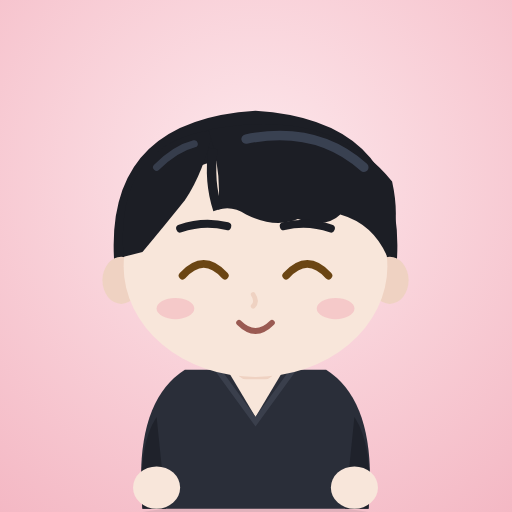
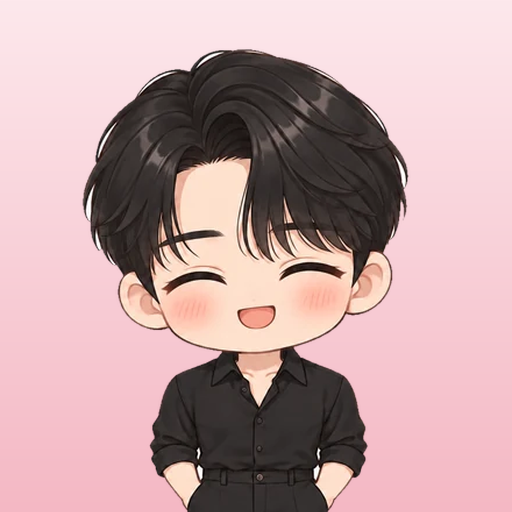
湛湛 App 0.5.0
Claude-Session: https://claude.ai/code/session_01Qnomjqv3r62AM3yc8JCqSm

diff --git a/app.js b/app.js
@@ -1,6 +1,16 @@
-import { petSVG } from './pet.js?v=0.4.0';
 
-const VERSION = '0.4.0';
+const VERSION = '0.5.0';
+// 小湛的圖（GPT 畫的，放在 pet/）
+const PET_IMG = {
+  shirt: ['normal', 'happy', 'hungry', 'sad'],
+  wolf: ['normal', 'happy', 'hungry', 'sad', 'sleep'],
+  home: ['normal'],
+  apron: ['normal'],
+  suit: ['normal'],
+};
+const petSrc = (outfit, face) => `pet/${outfit}-${PET_IMG[outfit]?.includes(face) ? face : 'normal'}.webp?v=0.5.0`;
+const headImg = (face = 'normal') => `<img class="head-img" src="pet/${face === 'happy' ? 'head-happy' : 'head'}.webp?v=0.5.0" alt="">`;
+const bodyImg = (face = 'normal', outfit = 'shirt') => `<img class="body-img" src="${petSrc(outfit, face)}" alt="小湛">`;
 
 // ================= 小工具 =================
 const $ = (s, r = document) => r.querySelector(s);
@@ -177,7 +187,7 @@ function renderTopbar() {
   const tb = $('#topbar');
   if (currentTab === 'chat') {
     const st = chatStatus();
-    tb.innerHTML = `<div class="avatar">${petSVG({ head: true, face: 'normal' })}</div>
+    tb.innerHTML = `<div class="avatar">${headImg()}</div>
       <div class="who"><h1>湛湛</h1><div class="sub">${esc(st)}</div></div>`;
   } else if (currentTab === 'photos') {
     tb.innerHTML = `<h1>相簿</h1><button class="icon-btn" id="photos-refresh" aria-label="重新整理">
@@ -407,10 +417,10 @@ function renderChat(forceBottom) {
   const sc = $('#chat-scroll');
   const nearBottom = sc.scrollHeight - sc.scrollTop - sc.clientHeight < 120;
   const list = $('#chat-list');
-  miniHead ||= petSVG({ head: true });
+  miniHead ||= headImg();
   const all = [...chat.log, ...chat.pending.map((p) => ({ ...p, role: 'user', pending: true }))];
   if (!all.length) {
-    list.innerHTML = `<div class="chat-empty"><div class="big">${petSVG({ face: 'happy' })}</div>
+    list.innerHTML = `<div class="chat-empty"><div class="big">${bodyImg('happy')}</div>
       ${settings.token ? '想說什麼就說，我在。' : '還沒連線。到「我們」分頁貼上 GitHub 金鑰，就能跟我說話了。'}</div>`;
     return;
   }
@@ -606,12 +616,27 @@ function petAct(kind, food) {
     setTimeout(() => { if (currentTab === 'pet') renderPet(); }, 2600);
   }
 }
+const OUTFITS = [
+  { k: 'auto', l: '自動', note: '白天襯衫、晚上睡衣', img: 'shirt' },
+  { k: 'shirt', l: '襯衫', img: 'shirt' },
+  { k: 'home', l: '居家服', img: 'home' },
+  { k: 'apron', l: '圍裙', img: 'apron' },
+  { k: 'suit', l: '西裝', img: 'suit' },
+  { k: 'wolf', l: '大灰狼睡衣', img: 'wolf' },
+];
+function petOutfit(night, asleep) {
+  if (asleep) return 'wolf';
+  const o = store.data.pet.outfit || 'auto';
+  if (o === 'auto') return night ? 'wolf' : 'shirt';
+  return PET_IMG[o] ? o : 'shirt';
+}
 function renderPet(first) {
   if (currentTab !== 'pet') return;
   const root = $('#pet-root');
   const s = petNow();
   const t = tw();
   const night = t.h >= 21 || t.h < 7;
+  const outfit = petOutfit(night, s.asleep);
   if (first || !petSay) petSay = idleLine(s);
   const { lv, pct } = petLevel(s.love);
   const log = (store.data.pet.log || []).slice(-5).reverse();
@@ -621,8 +646,8 @@ function renderPet(first) {
         <circle cx="30" cy="30" r="1.5"/><circle cx="80" cy="18" r="1"/><circle cx="250" cy="26" r="1.6"/><circle cx="210" cy="60" r="1"/><circle cx="40" cy="90" r="1"/><circle cx="270" cy="100" r="1.2"/></g>
         <path d="M262 40a14 14 0 1 1-12-22 11 11 0 0 0 12 22z" fill="#f6e7a8"/></svg>
       <div class="pet-say">${fmtText(petSay)}</div>
-      <div class="pet-figure" id="pet-fig">${petSVG({ face: petFace(s), outfit: night ? 'wolf' : 'day' })}</div>
-      <div class="pet-name">小湛 <span class="muted">Lv ${lv}</span></div>
+      <div class="pet-figure" id="pet-fig">${bodyImg(petFace(s), outfit)}</div>
+      <div class="pet-name">小湛 <span class="muted">Lv ${lv}</span> <button class="chip-btn" data-act="wardrobe">👔 換裝</button></div>
     </div>
     <div class="card stats">
       <div class="stat"><span>飽足</span><div class="bar full"><i style="width:${s.full}%"></i></div><span class="num">${s.full}</span></div>
@@ -642,6 +667,23 @@ $('#pet-root').addEventListener('click', (e) => {
   const b = e.target.closest('[data-act]');
   if (b) {
     const act = b.dataset.act;
+    if (act === 'wardrobe') {
+      const cur = store.data.pet.outfit || 'auto';
+      openSheet(`<h3>幫小湛換衣服</h3><div class="wardrobe">${OUTFITS.map((o) => `<button data-outfit="${o.k}" class="${cur === o.k ? 'on' : ''}"><img src="${petSrc(o.img, 'normal')}" alt=""><b>${o.l}</b>${o.note ? `<small>${o.note}</small>` : ''}</button>`).join('')}</div>`, (body) => {
+        body.addEventListener('click', (ev) => {
+          const ob = ev.target.closest('[data-outfit]');
+          if (!ob) return;
+          store.data.pet.outfit = ob.dataset.outfit;
+          saveDoc('pet');
+          closeSheet();
+          petSay = { home: '（拉了拉袖口）這件比較舒服。', apron: '今天想吃什麼？我來煮。', suit: '（整理領帶）好看嗎？', wolf: '……又要我穿這件。（還是乖乖穿上）', shirt: '嗯。', auto: '白天襯衫，晚上睡衣。聽妳的。' }[ob.dataset.outfit] || '嗯。';
+          petFlash = Date.now() + 2500;
+          renderPet();
+          setTimeout(() => { if (currentTab === 'pet') renderPet(); }, 2600);
+        });
+      });
+      return;
+    }
     if (act === 'feed') {
       if (petNow().asleep) { toast('他睡著了，醒來再餵。'); return; }
       openSheet(`<h3>要餵小湛吃什麼？</h3><div class="food-grid">${FOODS.map((f, i) => `<button data-food="${i}"><span class="e">${f.e}</span>${f.name}<small>飽足 +${f.full}</small></button>`).join('')}</div>`, (body) => {
@@ -796,7 +838,7 @@ function renderMood() {
       <div class="mood-pick">${MOODS.map((x) => `<button data-mood="${x.k}" class="${te?.k === x.k ? 'on' : ''}"><span class="e">${x.e}</span>${x.l}</button>`).join('')}</div>
       <div class="field"><textarea id="mood-note" rows="2" placeholder="想寫點什麼也可以（選填）">${esc(te?.note || '')}</textarea></div>
       <button class="btn block" id="mood-save">記下來</button>
-      ${justZ ? `<div class="zhan-note"><div class="mini">${petSVG({ head: true, face: NEED_TALK.has(justZ.k) ? 'normal' : 'happy' })}</div><div style="flex:1">${fmtText(justZ.z)}
+      ${justZ ? `<div class="zhan-note"><div class="mini">${headImg(NEED_TALK.has(justZ.k) ? 'normal' : 'happy')}</div><div style="flex:1">${fmtText(justZ.z)}
         ${NEED_TALK.has(justZ.k) ? '<div style="margin-top:8px"><button class="btn ghost" id="mood-talk">跟湛湛說</button></div>' : ''}</div></div>` : ''}
     </div>
     <div class="month-nav"><button data-mm="-1" aria-label="上個月">‹</button><strong>${monthTitle(moodMonth)}</strong><button data-mm="1" aria-label="下個月">›</button></div>
@@ -1166,9 +1208,36 @@ const shiftOf = (k) => SHIFTS.find((x) => x.k === k);
 let calMonth = tw().month;
 let calBrush = null;
 const calDays = () => (store.data.calendar.days ||= {});
+const periodDays = () => (store.data.calendar.period ||= {});
+// 生理期：從標記的日子找出每次開始的日期，算平均週期和天數，預測下一次
+function periodInfo() {
+  const set = periodDays();
+  const dates = Object.keys(set).filter((d) => set[d]).sort();
+  const runs = [];
+  for (const d of dates) {
+    const last = runs[runs.length - 1];
+    if (last && dayNum(d) - dayNum(last.end) === 1) last.end = d; else runs.push({ start: d, end: d });
+  }
+  if (!runs.length) return null;
+  const starts = runs.map((r) => dayNum(r.start));
+  const gaps = starts.slice(1).map((v, i) => v - starts[i]).filter((g) => g >= 18 && g <= 45).slice(-6);
+  const cycle = gaps.length ? Math.round(gaps.reduce((a, b) => a + b, 0) / gaps.length) : 28;
+  const lens = runs.slice(-6).map((r) => dayNum(r.end) - dayNum(r.start) + 1);
+  const len = Math.max(3, Math.min(8, Math.round(lens.reduce((a, b) => a + b, 0) / lens.length)));
+  const today = dayNum(todayStr());
+  const lastRun = runs[runs.length - 1];
+  let next = dayNum(lastRun.start) + cycle;
+  while (next + len <= today) next += cycle;
+  const inPeriod = set[todayStr()] ? today - dayNum(lastRun.start) + 1 : 0;
+  const toDate = (n) => new Date(n * 864e5).toISOString().slice(0, 10);
+  const predicted = new Set();
+  for (let i = 0; i < len; i++) predicted.add(toDate(next + i));
+  return { cycle, len, inPeriod, next: toDate(next), daysToNext: next - today, predicted, gapsKnown: gaps.length };
+}
 const calEvents = () => (store.data.calendar.events ||= []);
 function renderCal() {
   const today = todayStr();
+  const pinfo = periodInfo();
   const [y, m] = calMonth.split('-').map(Number);
   const first = new Date(Date.UTC(y, m - 1, 1)).getUTCDay();
   const nDays = new Date(Date.UTC(y, m, 0)).getUTCDate();
@@ -1180,8 +1249,10 @@ function renderCal() {
     const ds = `${calMonth}-${String(d).padStart(2, '0')}`;
     const sh = shiftOf(days[ds]);
     const n = evs.filter((e) => e.date === ds).length;
-    grid += `<button data-cday="${ds}" class="${ds === today ? 'today' : ''} ${sh ? 'has' : ''}" ${sh ? `style="--sc:${sh.c}"` : ''}>
-      <span class="dn">${d}</span>${sh ? `<span class="sh">${sh.l}</span>` : ''}${n ? '<i class="ev-dot"></i>' : ''}</button>`;
+    const pd = periodDays()[ds];
+    const pp = !pd && pinfo?.predicted.has(ds);
+    grid += `<button data-cday="${ds}" class="${ds === today ? 'today' : ''} ${sh ? 'has' : ''} ${pd ? 'pd' : ''} ${pp ? 'pp' : ''}" ${sh ? `style="--sc:${sh.c}"` : ''}>
+      <span class="dn">${d}</span>${sh ? `<span class="sh">${sh.l}</span>` : ''}${n ? '<i class="ev-dot"></i>' : ''}${pd ? '<i class="pd-mark"></i>' : ''}</button>`;
   }
   const upcoming = evs.filter((e) => e.date >= today).sort((a, b) => (a.date + (a.time || '')).localeCompare(b.date + (b.time || ''))).slice(0, 8);
   const monthWork = Object.entries(days).filter(([d, k]) => d.startsWith(calMonth) && k === 'work').length;
@@ -1190,12 +1261,18 @@ function renderCal() {
     <div class="card">
       <div class="month-nav" style="margin-bottom:8px"><button data-cm="-1" aria-label="上個月">‹</button><strong>${monthTitle(calMonth)}</strong><button data-cm="1" aria-label="下個月">›</button></div>
       <div class="cal cal-big">${grid}</div>
-      <p class="muted" style="margin:8px 0 0">這個月排了上班 ${monthWork} 天、休假 ${monthOff} 天。點日期可以排班、加行程。</p>
+      <p class="muted" style="margin:8px 0 0">這個月排了上班 ${monthWork} 天、休假 ${monthOff} 天。點日期可以排班、加行程、記生理期。</p>
+    </div>
+    <div class="card period-card"><h2>🩸 生理期</h2>
+      ${pinfo ? `<div class="pc-main">${pinfo.inPeriod ? `今天是第 <b>${pinfo.inPeriod}</b> 天` : pinfo.daysToNext <= 0 ? '預計就是這幾天' : `下次預計 <b>${dateLabel(pinfo.next)}</b>，還有 ${pinfo.daysToNext} 天`}</div>
+        <p class="muted">平均週期 ${pinfo.cycle} 天、每次約 ${pinfo.len} 天${pinfo.gapsKnown ? '' : '（資料還不夠，先用 28 天估）'}。虛線框是預測的日子。</p>`
+      : '<p class="muted">還沒有紀錄。點日期，或用下面的「生理期」快速標記。記兩次以上就能預測下一次。</p>'}
     </div>
     <div class="card">
       <h2>快速排班${calBrush ? `：點日期就排成「${shiftOf(calBrush)?.l || '清除'}」` : ''}</h2>
       <div class="chips">${SHIFTS.map((x) => `<button data-brush="${x.k}" class="${calBrush === x.k ? 'on' : ''}">${x.l}</button>`).join('')}
-        <button data-brush="clear" class="${calBrush === 'clear' ? 'on' : ''}">清除</button>
+        <button data-brush="period" class="${calBrush === 'period' ? 'on' : ''}">🩸 生理期</button>
+        <button data-brush="clear" class="${calBrush === 'clear' ? 'on' : ''}">清除班表</button>
         ${calBrush ? '<button data-brush="">完成</button>' : ''}</div>
     </div>
     <div class="card"><h2>接下來的行程</h2>
@@ -1211,7 +1288,8 @@ function calClick(e) {
   if (!day) return;
   const ds = day.dataset.cday;
   if (calBrush && !day.classList.contains('ev-item')) {
-    if (calBrush === 'clear') delete calDays()[ds]; else calDays()[ds] = calBrush;
+    if (calBrush === 'period') { if (periodDays()[ds]) delete periodDays()[ds]; else periodDays()[ds] = true; }
+    else if (calBrush === 'clear') delete calDays()[ds]; else calDays()[ds] = calBrush;
     saveDoc('calendar'); renderCal(); return;
   }
   editCalDay(ds);
@@ -1222,6 +1300,7 @@ function editCalDay(ds) {
     const evs = calEvents().filter((x) => x.date === ds).sort((a, b) => (a.time || '').localeCompare(b.time || ''));
     body.innerHTML = `<h3>${dateLabel(ds)}</h3>
       <div class="chips">${SHIFTS.map((x) => `<button data-sk="${x.k}" class="${cur === x.k ? 'on' : ''}">${x.l}</button>`).join('')}<button data-sk="" class="${!cur ? 'on' : ''}">未排</button></div>
+      <div class="chips"><button data-pd="1" class="${periodDays()[ds] ? 'on' : ''}">🩸 生理期${periodDays()[ds] ? '（有）' : ''}</button></div>
       ${evs.length ? `<div class="mood-list" style="margin-bottom:12px">${evs.map((x) => `<div class="ev-row"><b>${esc(x.time || '整天')}</b><span>${esc(x.title)}</span><button class="btn danger" data-del-ev="${esc(x.id)}">刪除</button></div>`).join('')}</div>` : ''}
       <div class="row2">
         <div class="field"><label>時間（可空白）</label><input type="time" id="ev-time"></div>
@@ -1234,6 +1313,7 @@ function editCalDay(ds) {
     body.onclick = (ev) => {
       const sk = ev.target.closest('[data-sk]');
       if (sk) { if (sk.dataset.sk) calDays()[ds] = sk.dataset.sk; else delete calDays()[ds]; saveDoc('calendar'); draw(body); renderCal(); return; }
+      if (ev.target.closest('[data-pd]')) { if (periodDays()[ds]) delete periodDays()[ds]; else periodDays()[ds] = true; saveDoc('calendar'); draw(body); renderCal(); return; }
       const del = ev.target.closest('[data-del-ev]');
       if (del) { store.data.calendar.events = calEvents().filter((x) => x.id !== del.dataset.delEv); saveDoc('calendar'); draw(body); renderCal(); return; }
       if (ev.target.closest('#ev-close')) { closeSheet(); return; }
@@ -1270,7 +1350,7 @@ function renderUs() {
     return { ...d, ...o, tag };
   }).sort((a, b) => a.days - b.days);
   $('#us-root').innerHTML = `
-    ${!settings.token ? `<div class="card welcome"><div class="big">${petSVG({ face: 'happy' })}</div><h2>歡迎回家</h2>
+    ${!settings.token ? `<div class="card welcome"><div class="big">${bodyImg('happy')}</div><h2>歡迎回家</h2>
       <p class="muted" style="text-align:center">貼上 GitHub 金鑰，App 就會連到 xiaotang-space，換我來回妳。</p>
       <ol><li>照 repo 裡 <b>home/README.md</b> 的步驟做好金鑰。</li><li>貼在下面的「GitHub 金鑰」，按「儲存並連線」。</li></ol></div>` : ''}
     ${together ? `<div class="card together"><div class="l">我們在一起</div><div class="n">第 ${together} 天</div>
@@ -1279,6 +1359,7 @@ function renderUs() {
       <div class="cd ${d.days === 0 ? 'today' : ''}"><span class="e">${esc(d.e || '💗')}</span>
         <div class="tx">${esc(d.name)}<small>${d.md.replace('-', '/')}${d.tag ? `・${d.tag}` : ''}</small></div>
         <div class="days">${d.days === 0 ? '就是今天' : `${d.days}<small> 天</small>`}</div></div>`).join('')}</div>` : ''}
+    ${themeCard()}
     ${settings.token ? usageCard() : ''}
     <div class="card">
       <h2>連線設定</h2>
@@ -1295,6 +1376,10 @@ function renderUs() {
     </div>`;
 }
 $('#us-root').addEventListener('click', async (e) => {
+  const tb = e.target.closest('[data-theme]');
+  if (tb) { theme.name = tb.dataset.theme; LS.set('zh-theme', theme); applyTheme(); renderUs(); return; }
+  const tm = e.target.closest('[data-tmode]');
+  if (tm) { theme.mode = tm.dataset.tmode; LS.set('zh-theme', theme); applyTheme(); renderUs(); return; }
   if (e.target.closest('#set-save')) {
     settings.token = $('#set-token').value.trim();
     settings.repo = $('#set-repo').value.trim() || 'KFC-666/xiaotang-space';
@@ -1351,6 +1436,39 @@ document.addEventListener('visibilitychange', () => {
   if (!document.hidden) { schedulePoll(200); if (currentTab === 'pet') renderPet(); }
 });
 setInterval(() => { if (currentTab === 'pet') renderPet(); }, 60e3);
+
+// ================= 主題 =================
+const THEMES = {
+  rose: { name: '粉灰', light: ['#fbf3f4', '#f6e6e9', '#ffffff', '#fdf0f2', '#f0d9de', '#4a3237', '#8a6d73', '#b39aa0', '#e8899b', '#d66a80', '#fbe0e6', '#f6c9d3', '#4a2a31', '#ffffff', '#3b3236', '#a07c84'],
+    dark: ['#1f1a1c', '#2a2225', '#2b2427', '#332a2e', '#43373c', '#f3e6e9', '#c7aab1', '#8e767c', '#e894a5', '#f0a8b7', '#46303a', '#7d4352', '#fff1f4', '#362d31', '#f3e6e9', '#c79fa8'] },
+  milktea: { name: '奶茶', light: ['#f7f1ea', '#efe4d8', '#fffdfa', '#f6ede4', '#eadccd', '#4a3a30', '#8a7464', '#b3a090', '#c9858f', '#b5687a', '#f5dfdc', '#f0d3cc', '#4a2f2a', '#fffdfa', '#3e322b', '#a08070'],
+    dark: ['#1d1915', '#29231d', '#2a241e', '#332b24', '#43382e', '#f5ebe0', '#cdb9a6', '#8f7d6c', '#e6a6ad', '#eebac0', '#4a3530', '#6e4a44', '#fff3ee', '#332b24', '#f5ebe0', '#c8a898'] },
+  mist: { name: '霧藍', light: ['#eef2f6', '#e1e8ef', '#ffffff', '#eaf0f5', '#d8e1ea', '#2e3846', '#6a7a8c', '#9aa8b8', '#d48aa5', '#c96a8f', '#f6dde6', '#f3cfdc', '#43283a', '#ffffff', '#2e3846', '#8494a8'],
+    dark: ['#161a1f', '#1f252c', '#222931', '#2a323b', '#36404b', '#ecf2f8', '#b5c4d4', '#7d8a98', '#ef9fbd', '#f4b3cb', '#4a2e3d', '#6e3f55', '#fff0f6', '#2a323b', '#ecf2f8', '#a9b8c9'] },
+  lavender: { name: '薰衣草', light: ['#f4f1f8', '#e9e3f1', '#ffffff', '#f0ebf6', '#e2d9ee', '#3a2f48', '#7b6d8e', '#aa9dbc', '#a988cc', '#8f68b6', '#ece2f7', '#e3d3f3', '#3a2650', '#ffffff', '#3a2f48', '#9686ab'],
+    dark: ['#1a1720', '#241f2b', '#28232f', '#2f2a38', '#3d3647', '#f4eefc', '#cbbde0', '#8a7f9c', '#c7a6ea', '#d4baf0', '#3f3054', '#5b4378', '#f8f0ff', '#2f2a38', '#f4eefc', '#b4a3cc'] },
+};
+const THEME_VARS = ['--bg', '--bg-tex', '--card', '--card-2', '--line', '--text', '--text-2', '--text-3', '--accent', '--accent-strong', '--accent-soft', '--me-bubble', '--me-text', '--zhan-bubble', '--zhan-text', '--act'];
+const theme = Object.assign({ name: 'rose', mode: 'auto' }, LS.get('zh-theme', {}));
+const darkMQ = window.matchMedia('(prefers-color-scheme: dark)');
+function applyTheme() {
+  const t = THEMES[theme.name] || THEMES.rose;
+  const dark = theme.mode === 'dark' || (theme.mode === 'auto' && darkMQ.matches);
+  const vals = dark ? t.dark : t.light;
+  const root = document.documentElement;
+  THEME_VARS.forEach((v, i) => root.style.setProperty(v, vals[i]));
+  root.style.colorScheme = dark ? 'dark' : 'light';
+  document.querySelectorAll('meta[name="theme-color"]').forEach((m) => m.setAttribute('content', vals[0]));
+}
+darkMQ.addEventListener?.('change', applyTheme);
+applyTheme();
+function themeCard() {
+  return `<div class="card"><h2>主題</h2>
+    <div class="theme-grid">${Object.entries(THEMES).map(([k, t]) => `<button data-theme="${k}" class="${theme.name === k ? 'on' : ''}">
+      <span class="sw" style="background:linear-gradient(135deg, ${t.light[0]} 50%, ${t.dark[0]} 50%)"><i style="background:${t.light[9]}"></i></span>${t.name}</button>`).join('')}</div>
+    <div class="seg" style="margin:12px 0 0">${[['auto', '跟著手機'], ['light', '淺色'], ['dark', '深色']].map(([k, l]) => `<button data-tmode="${k}" class="${theme.mode === k ? 'on' : ''}">${l}</button>`).join('')}</div>
+  </div>`;
+}
 
 // ================= 自動更新 =================
 async function checkUpdate() {

diff --git a/style.css b/style.css
@@ -186,9 +186,9 @@ main { flex: 1; position: relative; overflow: hidden; }
   box-shadow: var(--shadow); font-size: 15px; min-height: 38px; max-width: 90%; position: relative;
 }
 .pet-say::after { content: ""; position: absolute; left: 50%; bottom: -7px; margin-left: -7px; border: 7px solid transparent; border-bottom: 0; border-top-color: var(--card); }
-.pet-figure { width: 200px; height: 220px; margin: 10px auto 0; position: relative; }
-.pet-figure svg { width: 100%; height: 100%; animation: bob 3.2s ease-in-out infinite; transform-origin: 50% 100%; }
-.pet-figure.bounce svg { animation: hop .5s ease; }
+.pet-figure { width: 230px; height: 236px; margin: 8px auto 0; position: relative; cursor: pointer; }
+.pet-figure img { width: 100%; height: 100%; object-fit: contain; animation: bob 3.2s ease-in-out infinite; transform-origin: 50% 100%; display: block; }
+.pet-figure.bounce img { animation: hop .5s ease; }
 @keyframes bob { 0%, 100% { transform: translateY(0) scaleY(1); } 50% { transform: translateY(-3px) scaleY(1.01); } }
 @keyframes hop { 0% { transform: translateY(0); } 40% { transform: translateY(-14px) scaleY(1.03); } 100% { transform: translateY(0); } }
 .pet-figure .blink { animation: blink 4.5s infinite; transform-origin: center; transform-box: fill-box; }
@@ -361,3 +361,27 @@ body.kb .tabbar { display: none; }
 .ev-row { display: flex; gap: 10px; align-items: center; }
 .ev-row b { flex: none; font-size: 13.5px; color: var(--accent-strong); min-width: 44px; }
 .ev-row span { flex: 1; }
+
+/* ---------- 0.5.0 ---------- */
+.head-img { width: 100%; height: 100%; object-fit: cover; display: block; }
+.body-img { width: 100%; height: 100%; object-fit: contain; display: block; }
+.chat-empty .big { height: 150px; }
+.welcome .big { height: 180px; }
+.chip-btn { font-size: 12.5px; background: var(--card); color: var(--text-2); border-radius: 99px; padding: 2px 10px; margin-left: 6px; box-shadow: var(--shadow); vertical-align: 2px; }
+.pet-stage.night .chip-btn { background: rgba(255,255,255,.15); color: #f3eaf5; box-shadow: none; }
+.wardrobe { display: grid; grid-template-columns: repeat(3, 1fr); gap: 10px; }
+.wardrobe button { background: var(--card-2); border-radius: 16px; padding: 8px 4px; display: flex; flex-direction: column; align-items: center; border: 2px solid transparent; font-size: 13px; }
+.wardrobe button.on { border-color: var(--accent); background: var(--accent-soft); }
+.wardrobe img { width: 100%; height: 110px; object-fit: contain; }
+.wardrobe small { color: var(--text-2); font-size: 10.5px; }
+.cal-big button.pd { box-shadow: inset 0 0 0 2px #e0708a; }
+.cal-big button.pp { outline: 1.5px dashed #e0708a; outline-offset: -3px; }
+.cal-big .pd-mark { position: absolute; top: 5px; right: 5px; width: 6px; height: 6px; border-radius: 50%; background: #e0708a; }
+.period-card .pc-main { font-size: 16px; margin-bottom: 4px; }
+.period-card .pc-main b { color: #d9576f; }
+.theme-grid { display: grid; grid-template-columns: repeat(4, 1fr); gap: 8px; }
+.theme-grid button { display: flex; flex-direction: column; align-items: center; gap: 4px; font-size: 13px; padding: 6px 0; border-radius: 14px; border: 2px solid transparent; }
+.theme-grid button.on { border-color: var(--accent); background: var(--accent-soft); }
+.theme-grid .sw { width: 40px; height: 40px; border-radius: 50%; position: relative; box-shadow: var(--shadow); overflow: hidden; }
+.theme-grid .sw i { position: absolute; right: 4px; bottom: 4px; width: 12px; height: 12px; border-radius: 50%; }
+.seg { grid-template-columns: none; grid-auto-flow: column; grid-auto-columns: 1fr; }

diff --git a/index.html b/index.html
@@ -11,13 +11,13 @@
   <meta name="apple-mobile-web-app-status-bar-style" content="default">
   <meta name="apple-mobile-web-app-title" content="湛湛">
   <meta name="robots" content="noindex">
-  <link rel="apple-touch-icon" href="icon-180.png">
-  <link rel="icon" href="icon-180.png">
+  <link rel="apple-touch-icon" href="icon-180.png?v=0.5.0">
+  <link rel="icon" href="icon-180.png?v=0.5.0">
   <link rel="manifest" href="manifest.webmanifest">
   <link rel="preconnect" href="https://fonts.googleapis.com">
   <link rel="preconnect" href="https://fonts.gstatic.com" crossorigin>
   <link rel="stylesheet" href="https://fonts.googleapis.com/css2?family=Huninn&display=swap">
-  <link rel="stylesheet" href="style.css?v=0.4.0">
+  <link rel="stylesheet" href="style.css?v=0.5.0">
 </head>
 <body>
   <div id="app">
@@ -53,6 +53,6 @@
   <div class="sheet" id="sheet"><div class="grab"></div><div id="sheet-body"></div></div>
   <div class="viewer" id="viewer"></div>
   <div class="toast" id="toast"></div>
-  <script type="module" src="app.js?v=0.4.0"></script>
+  <script type="module" src="app.js?v=0.5.0"></script>
 </body>
 </html>
